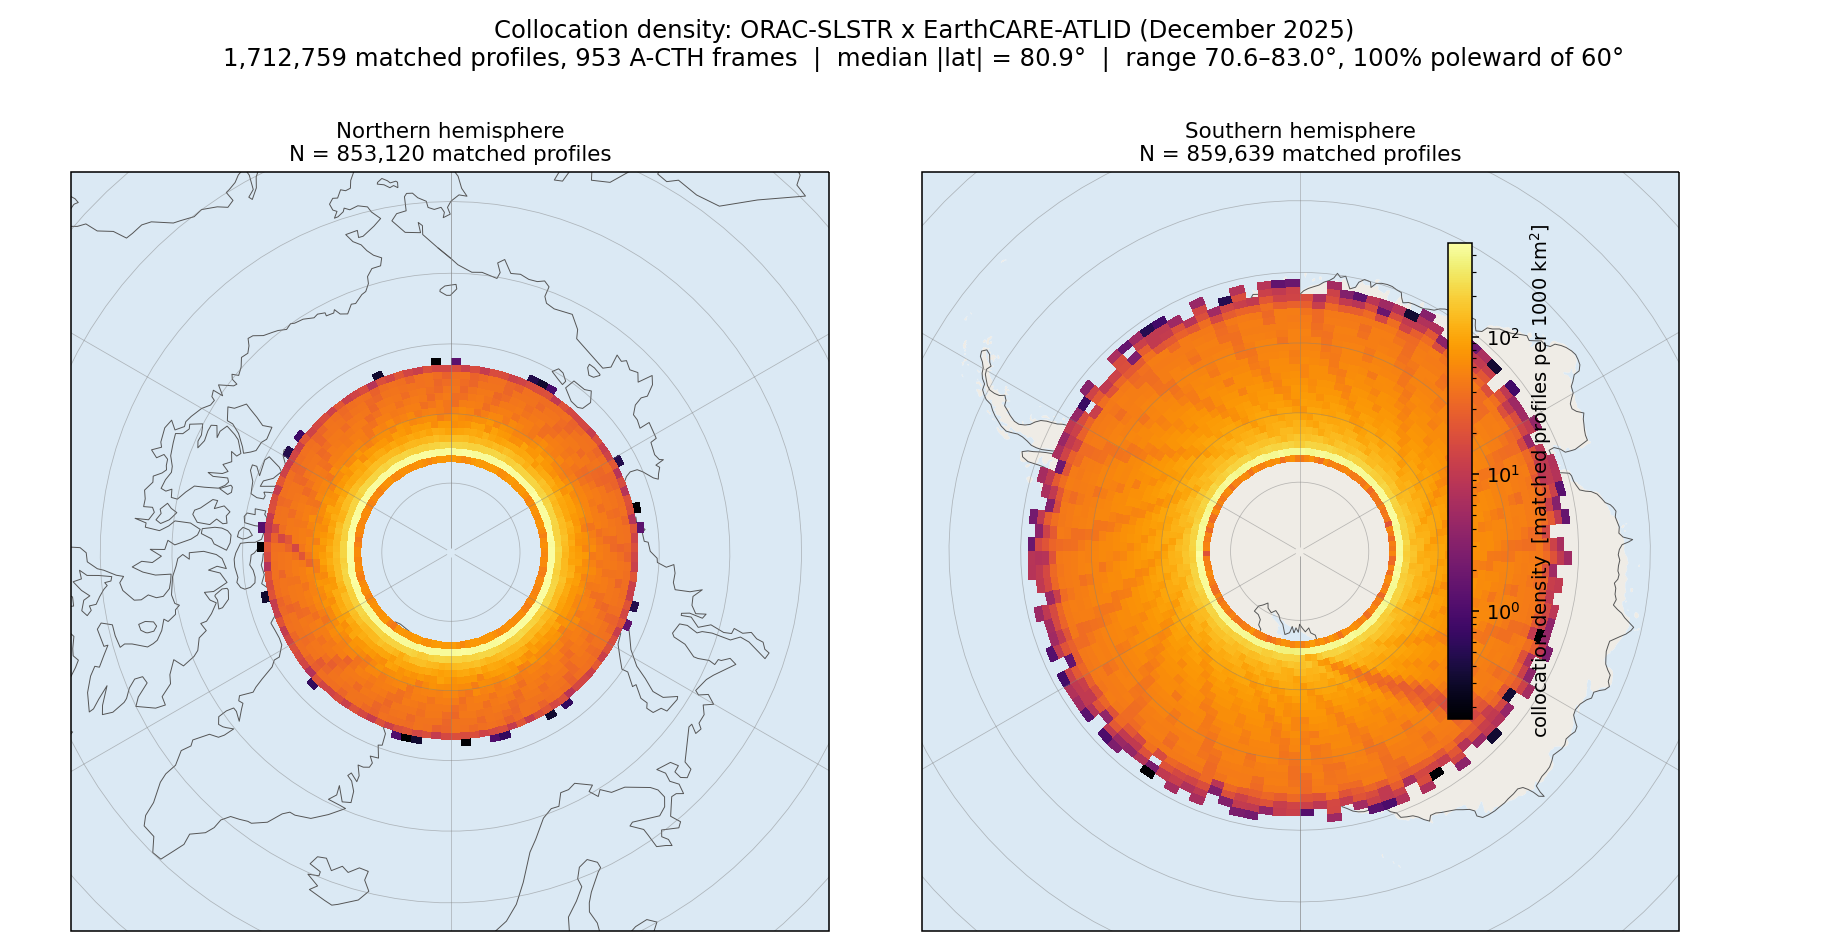
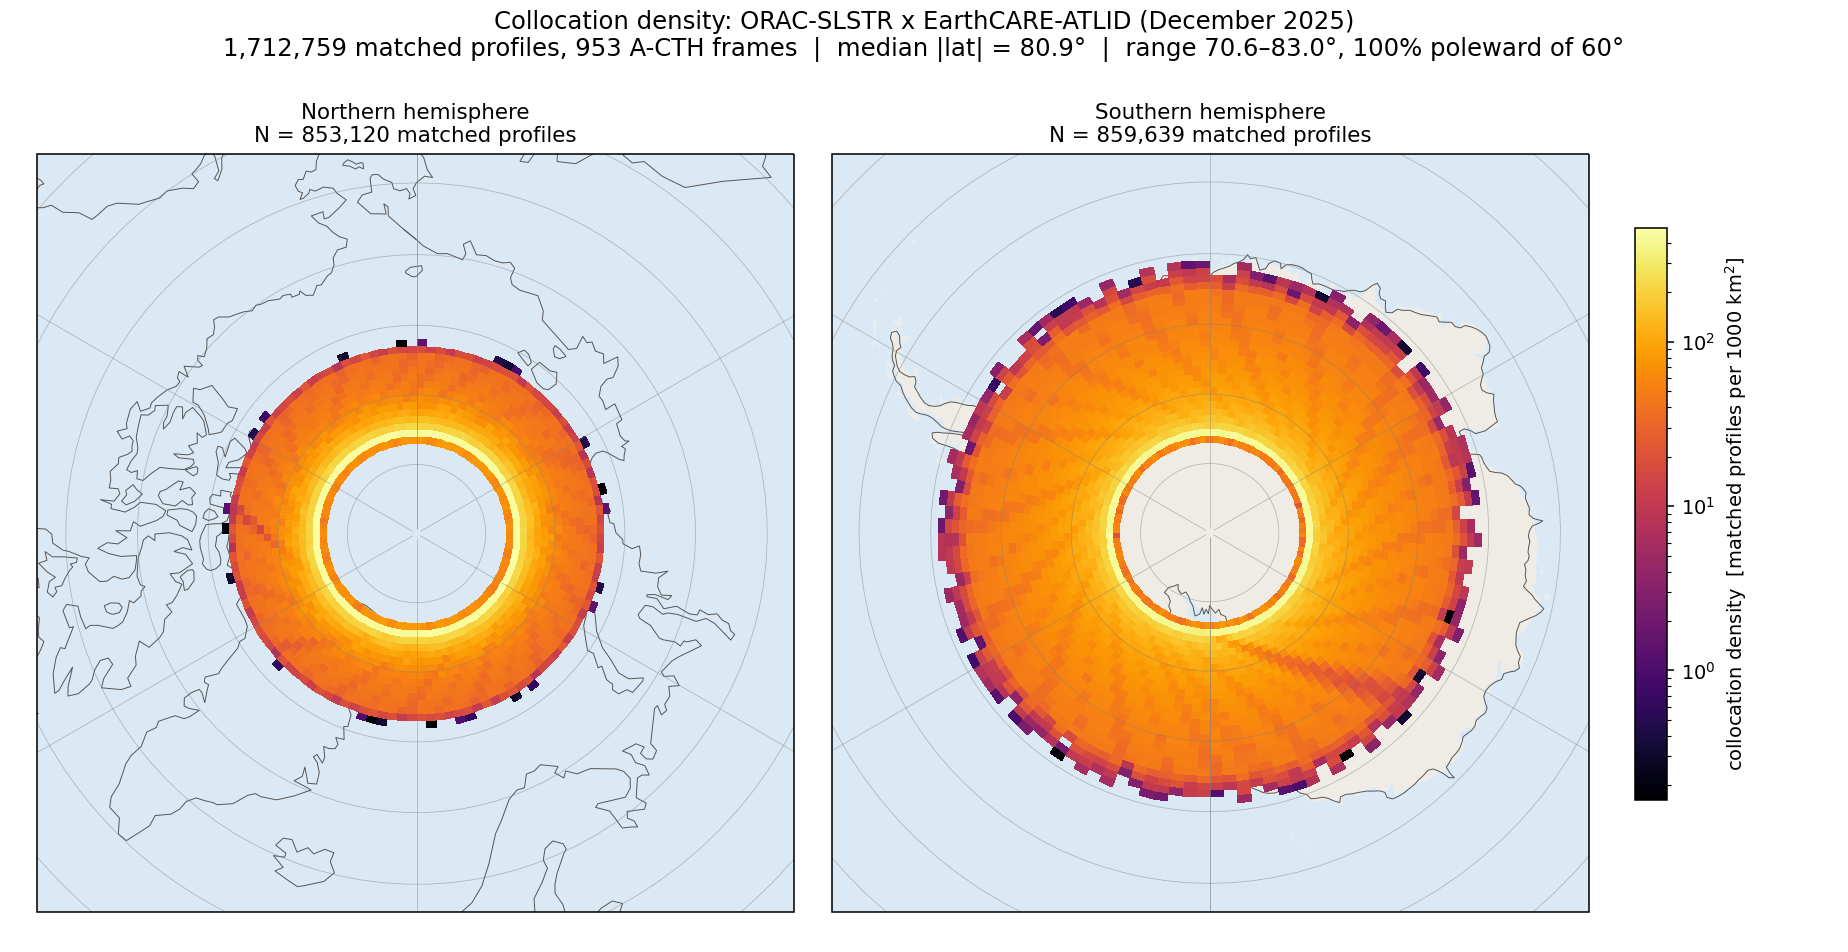
slstr(collocation): fix density-map colourbar overlapping the SH panel
Give the colourbar a dedicated axis on the far right (subplots_adjust + add_axes)
instead of stealing space from the subplots.

diff --git a/scripts/slstr_collocation_figures.py b/scripts/slstr_collocation_figures.py
@@ -85,16 +85,18 @@ def collocation_map():
         ims.append(im)
         nn = int(hemi.sum())
         ax.set_title(f"{name}\nN = {nn:,} matched profiles", fontsize=11)
-    cb = fig.colorbar(ims[-1], ax=fig.axes, shrink=0.65, pad=0.02)
-    cb.set_label("collocation density  [matched profiles per 1000 km$^2$]")
 
     med = float(np.median(np.abs(lat)))
     fig.suptitle(
         "Collocation density: ORAC-SLSTR x EarthCARE-ATLID (December 2025)\n"
         f"{len(v):,} matched profiles, {nfr} A-CTH frames  |  "
         f"median |lat| = {med:.1f}°  |  range 70.6–83.0°, 100% poleward of 60°",
-        fontsize=12.5)
-    fig.tight_layout(rect=[0, 0, 0.92, 0.92])
+        fontsize=12.5, y=0.99)
+    # Reserve room on the right and give the colourbar its own axis (no overlap).
+    fig.subplots_adjust(left=0.02, right=0.86, top=0.85, bottom=0.03, wspace=0.05)
+    cax = fig.add_axes([0.885, 0.16, 0.017, 0.6])
+    cb = fig.colorbar(ims[-1], cax=cax)
+    cb.set_label("collocation density  [matched profiles per 1000 km$^2$]")
     p = OUT / "collocation_map_polar.png"
     fig.savefig(p, dpi=140); plt.close(fig)
     print("wrote", p)
